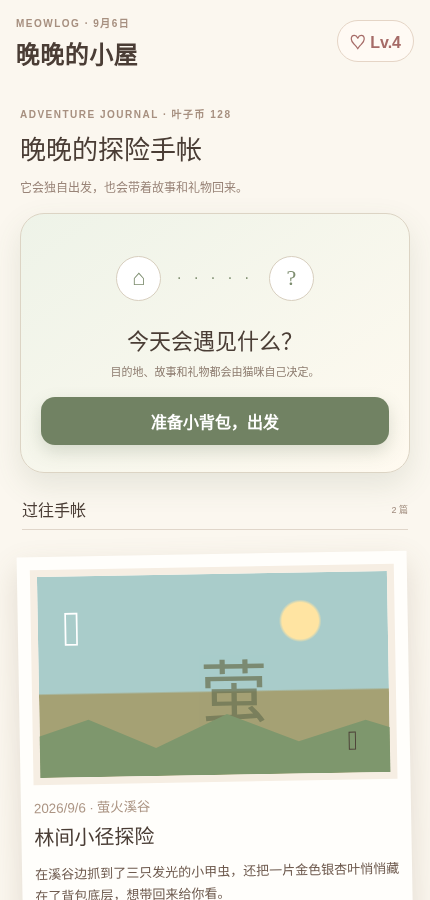
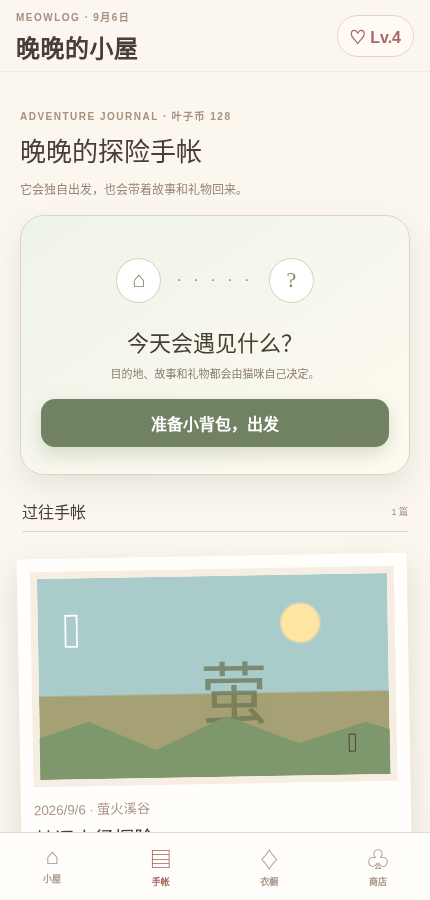
fix: smooth scroll container and pin bottom navigation inside frame

diff --git a/frontend/src/gameplay.css b/frontend/src/gameplay.css
@@ -1,2 +1,2 @@
-.daily-card{width:100%;margin-top:8px;padding:11px 13px;border:1px solid #dbe1d2;background:linear-gradient(100deg,#f5f8ef,#fffaf2);border-radius:18px;display:flex;align-items:center;gap:10px;text-align:left;box-shadow:0 6px 20px #63735617}.daily-card>span{width:37px;height:37px;border-radius:50%;display:grid;place-content:center;background:#718263;color:#fff;font-weight:900}.daily-card>div{flex:1}.daily-card b,.daily-card small{display:block}.daily-card b{font-size:12px}.daily-card small{font-size:8px;color:#8c9882;margin-top:3px}.daily-card em{font-style:normal;font-size:11px;font-weight:900;color:#6e7f63}.daily-overlay{position:absolute;z-index:120;inset:0;background:#46382f77;backdrop-filter:blur(5px);display:flex;align-items:flex-end}.daily-overlay>section{width:100%;max-height:82%;border-radius:28px 28px 0 0;background:#fbf7ef;padding-bottom:18px;animation:slideUp .3s ease;box-shadow:0 -12px 40px #30251f42}.daily-overlay header{padding:18px;display:flex;align-items:center;justify-content:space-between;border-bottom:1px solid #e4d9ce}.daily-overlay header small{font-size:8px;letter-spacing:1.4px;color:#8a9a7e}.daily-overlay header h3{font:22px Georgia,"Songti SC",serif;margin:4px 0 0}.daily-overlay header button{width:32px;height:32px;border:0;border-radius:50%;background:#ece4da;font-size:20px}.daily-list{padding:14px 16px;display:flex;flex-direction:column;gap:9px}.daily-list article{display:grid;grid-template-columns:38px 1fr auto;gap:10px;align-items:center;padding:11px;border:1px solid #e2d8cc;border-radius:15px;background:#fffdf9}.daily-list article>i{width:37px;height:37px;display:grid;place-content:center;border-radius:50%;background:#edf2e7;font-style:normal;font-size:19px}.daily-list article>div b,.daily-list article>div span{font-size:10px}.daily-list article>div span{float:right;color:#948276}.daily-list article>div em{display:block;height:4px;border-radius:9px;background:#eee6dc;margin-top:7px;overflow:hidden}.daily-list article>div em u{display:block;height:100%;background:#7f936f;border-radius:9px;transition:.35s}.daily-list article>button{border:0;border-radius:13px;padding:7px 9px;background:#788b6a;color:#fff;font-size:9px;white-space:nowrap}.daily-list article>button:disabled{background:#ded7ce;color:#9e9085}.daily-list article.claimed{opacity:.64}.daily-overlay footer{text-align:center;color:#9a897d;font-size:9px}.shop-page{padding-bottom:28px}.wallet-card{margin-top:18px;padding:15px;border-radius:20px;background:linear-gradient(130deg,#6b7e60,#94a67e);color:#fff;display:flex;align-items:center;gap:12px;box-shadow:0 12px 24px #52604635}.wallet-card>span{font-size:31px}.wallet-card>div{flex:1}.wallet-card small,.wallet-card b{display:block}.wallet-card small{font-size:8px;opacity:.75}.wallet-card b{font:26px Georgia;margin-top:2px}.wallet-card em{font-style:normal;font-size:8px;opacity:.72}.shop-grid{display:grid;grid-template-columns:repeat(2,1fr);gap:11px;margin-top:15px}.shop-grid article{padding:9px;border:1px solid #e0d5c8;border-radius:18px;background:#fffdf8;box-shadow:0 6px 16px #72583d16;position:relative}.shop-art{height:92px;border-radius:13px;background:radial-gradient(circle at 50% 35%,#fff 0 15%,transparent 40%),linear-gradient(145deg,#e7eedf,#f3e8d7);display:grid;place-content:center;position:relative}.shop-art i{font:normal 42px Georgia;color:#74856a}.shop-art span{position:absolute;left:7px;top:7px;border-radius:8px;padding:3px 6px;background:#fff9;font-size:7px;color:#817367}.shop-grid h3{font:14px Georgia,"Songti SC",serif;margin:9px 2px 2px}.shop-grid>article>small{font-size:8px;color:#a08e80}.shop-grid>article>button{width:100%;margin-top:8px;padding:8px;border:0;border-radius:11px;background:#74866a;color:#fff;font-size:9px;font-weight:800}.shop-grid>article>button:disabled{background:#ded5ca;color:#97897f}.shop-grid article.owned:after{content:"已收藏";position:absolute;right:13px;top:15px;color:#718263;font-size:8px;font-weight:900}.bottom-nav{padding-left:34px;padding-right:34px}.bottom-nav button{min-width:48px}.game-shell{overflow-y:auto}.game-shell::-webkit-scrollbar{display:none}
+.daily-card{width:100%;margin-top:8px;padding:11px 13px;border:1px solid #dbe1d2;background:linear-gradient(100deg,#f5f8ef,#fffaf2);border-radius:18px;display:flex;align-items:center;gap:10px;text-align:left;box-shadow:0 6px 20px #63735617}.daily-card>span{width:37px;height:37px;border-radius:50%;display:grid;place-content:center;background:#718263;color:#fff;font-weight:900}.daily-card>div{flex:1}.daily-card b,.daily-card small{display:block}.daily-card b{font-size:12px}.daily-card small{font-size:8px;color:#8c9882;margin-top:3px}.daily-card em{font-style:normal;font-size:11px;font-weight:900;color:#6e7f63}.daily-overlay{position:absolute;z-index:120;inset:0;background:#46382f77;backdrop-filter:blur(5px);display:flex;align-items:flex-end}.daily-overlay>section{width:100%;max-height:82%;border-radius:28px 28px 0 0;background:#fbf7ef;padding-bottom:18px;animation:slideUp .3s ease;box-shadow:0 -12px 40px #30251f42}.daily-overlay header{padding:18px;display:flex;align-items:center;justify-content:space-between;border-bottom:1px solid #e4d9ce}.daily-overlay header small{font-size:8px;letter-spacing:1.4px;color:#8a9a7e}.daily-overlay header h3{font:22px Georgia,"Songti SC",serif;margin:4px 0 0}.daily-overlay header button{width:32px;height:32px;border:0;border-radius:50%;background:#ece4da;font-size:20px}.daily-list{padding:14px 16px;display:flex;flex-direction:column;gap:9px}.daily-list article{display:grid;grid-template-columns:38px 1fr auto;gap:10px;align-items:center;padding:11px;border:1px solid #e2d8cc;border-radius:15px;background:#fffdf9}.daily-list article>i{width:37px;height:37px;display:grid;place-content:center;border-radius:50%;background:#edf2e7;font-style:normal;font-size:19px}.daily-list article>div b,.daily-list article>div span{font-size:10px}.daily-list article>div span{float:right;color:#948276}.daily-list article>div em{display:block;height:4px;border-radius:9px;background:#eee6dc;margin-top:7px;overflow:hidden}.daily-list article>div em u{display:block;height:100%;background:#7f936f;border-radius:9px;transition:.35s}.daily-list article>button{border:0;border-radius:13px;padding:7px 9px;background:#788b6a;color:#fff;font-size:9px;white-space:nowrap}.daily-list article>button:disabled{background:#ded7ce;color:#9e9085}.daily-list article.claimed{opacity:.64}.daily-overlay footer{text-align:center;color:#9a897d;font-size:9px}.shop-page{padding-bottom:28px}.wallet-card{margin-top:18px;padding:15px;border-radius:20px;background:linear-gradient(130deg,#6b7e60,#94a67e);color:#fff;display:flex;align-items:center;gap:12px;box-shadow:0 12px 24px #52604635}.wallet-card>span{font-size:31px}.wallet-card>div{flex:1}.wallet-card small,.wallet-card b{display:block}.wallet-card small{font-size:8px;opacity:.75}.wallet-card b{font:26px Georgia;margin-top:2px}.wallet-card em{font-style:normal;font-size:8px;opacity:.72}.shop-grid{display:grid;grid-template-columns:repeat(2,1fr);gap:11px;margin-top:15px}.shop-grid article{padding:9px;border:1px solid #e0d5c8;border-radius:18px;background:#fffdf8;box-shadow:0 6px 16px #72583d16;position:relative}.shop-art{height:92px;border-radius:13px;background:radial-gradient(circle at 50% 35%,#fff 0 15%,transparent 40%),linear-gradient(145deg,#e7eedf,#f3e8d7);display:grid;place-content:center;position:relative}.shop-art i{font:normal 42px Georgia;color:#74856a}.shop-art span{position:absolute;left:7px;top:7px;border-radius:8px;padding:3px 6px;background:#fff9;font-size:7px;color:#817367}.shop-grid h3{font:14px Georgia,"Songti SC",serif;margin:9px 2px 2px}.shop-grid>article>small{font-size:8px;color:#a08e80}.shop-grid>article>button{width:100%;margin-top:8px;padding:8px;border:0;border-radius:11px;background:#74866a;color:#fff;font-size:9px;font-weight:800}.shop-grid>article>button:disabled{background:#ded5ca;color:#97897f}.shop-grid article.owned:after{content:"已收藏";position:absolute;right:13px;top:15px;color:#718263;font-size:8px;font-weight:900}.game-shell{width:100%;max-width:430px;height:100vh;max-height:100vh;margin:auto;background:#fbf7ef;position:relative;overflow:hidden;display:flex;flex-direction:column;box-shadow:0 0 50px #58483d2b;padding:0}.game-header{flex-shrink:0;padding:0 16px;height:72px;display:flex;align-items:center;justify-content:space-between;border-bottom:1px solid #efe5d8aa;background:#fbf7eff2;backdrop-filter:blur(10px);z-index:10}.game-scroll-area{flex:1;overflow-y:auto;overflow-x:hidden;-webkit-overflow-scrolling:touch;padding:12px 16px 24px}.game-scroll-area::-webkit-scrollbar{display:none}.bottom-nav{flex-shrink:0;position:relative;z-index:30;bottom:auto;left:auto;right:auto;height:68px;padding:6px 28px 10px;display:flex;justify-content:space-between;background:#fffdfaf6;border-top:1px solid #e7dbcf;backdrop-filter:blur(16px)}.bottom-nav button{min-width:48px}@media(min-width:700px){.game-shell{height:88vh;max-height:860px;margin:6vh auto;border-radius:32px;border:1px solid #e2d5c5;box-shadow:0 24px 60px #503e3035}.bottom-nav{border-radius:0 0 32px 32px}}
 .game-toast{position:fixed;z-index:300;top:24px;left:50%;transform:translateX(-50%);max-width:360px;padding:11px 16px;border-radius:99px;background:#3f4e3bea;color:#fff;font-size:11px;font-weight:800;box-shadow:0 10px 30px #28332355;backdrop-filter:blur(8px);animation:toastIn .28s ease}.game-toast i{font-style:normal;color:#f0d985;margin-right:7px}.coin-guide{margin-top:12px;padding:13px;border:1px solid #e2d8cc;border-radius:17px;background:#fffdf8}.coin-guide>b{font:13px Georgia,"Songti SC",serif}.coin-guide>div{display:grid;grid-template-columns:repeat(3,1fr);gap:7px;margin-top:10px}.coin-guide span{padding:8px 5px;border-radius:11px;background:#f2f5ed;text-align:center;font-size:8px;font-weight:800}.coin-guide span i,.coin-guide span em{display:block}.coin-guide span i{width:24px;height:24px;margin:0 auto 5px;border-radius:50%;background:#7c8d70;color:#fff;display:grid;place-content:center;font-style:normal;font-size:12px}.coin-guide span em{font-style:normal;font-size:7px;color:#8f9b87;margin-top:3px}.checkin-card{margin:13px 16px 2px;padding:11px;border-radius:16px;background:linear-gradient(100deg,#e7eddc,#fff1d3);display:flex;align-items:center;justify-content:space-between;border:1px solid #d9dfca}.checkin-card>div{display:flex;align-items:center;gap:9px}.checkin-card>div>i{width:35px;height:35px;border-radius:50%;display:grid;place-content:center;background:#e6b95c;color:#fff;font-style:normal}.checkin-card b,.checkin-card small{display:block}.checkin-card b{font-size:11px}.checkin-card small{font-size:8px;color:#8c806f;margin-top:2px}.checkin-card>button{border:0;border-radius:12px;padding:8px 10px;background:#718263;color:#fff;font-size:9px;font-weight:800}.checkin-card.done{opacity:.68}.checkin-card>button:disabled{background:#b7b4a8}@keyframes toastIn{from{opacity:0;transform:translate(-50%,-12px) scale(.96)}}@media(max-height:740px){.daily-card{padding:8px 11px}.shop-art{height:78px}}

diff --git a/frontend/src/App.tsx b/frontend/src/App.tsx
@@ -448,6 +448,7 @@ export default function App() {
       <button className="level-chip">♡ Lv.{Math.max(1, Math.floor(cat.affection_level / 10) + 1)}</button>
     </header>
 
+    <div className="game-scroll-area">
     {page === 'home' && <>
       <section className="room-card">
         <div className="sun-glow" /><div className="window"><i /><b /><span className="cloud c1" /><span className="cloud c2" /></div>
@@ -544,6 +545,7 @@ export default function App() {
       <div className="coin-guide"><b>怎样获得叶子币？</b><div><span><i>✓</i>每日任务<em>最高 45/天</em></span><span><i>⌁</i>每日签到<em>连续签到更多</em></span><span><i>♧</i>探险归来<em>随机 8—18</em></span></div></div>
       <div className="shop-grid">{shopItems.map(item=>{const level=Math.max(1,Math.floor(cat.affection_level/10)+1);const canBuy=level>=item.level&&(cat.leaf_coins||0)>=item.price;return <article key={item.id} className={item.owned?'owned':''}><div className="shop-art"><i>{item.icon}</i><span>{item.category==='accessory'?'配饰':'服装'}</span></div><h3>{item.name}</h3><small>亲密 Lv.{item.level} 解锁</small><button disabled={item.owned||!canBuy||shopBusy===item.id} onClick={()=>buyItem(item)}>{item.owned?'已拥有':shopBusy===item.id?'打包中…':`${item.price} 🍃`}</button></article>})}</div>
     </section>}
+    </div>
 
     <nav className="bottom-nav">
       <button className={page==='home'?'active':''} onClick={()=>setPage('home')}><i>⌂</i><span>小屋</span></button>
